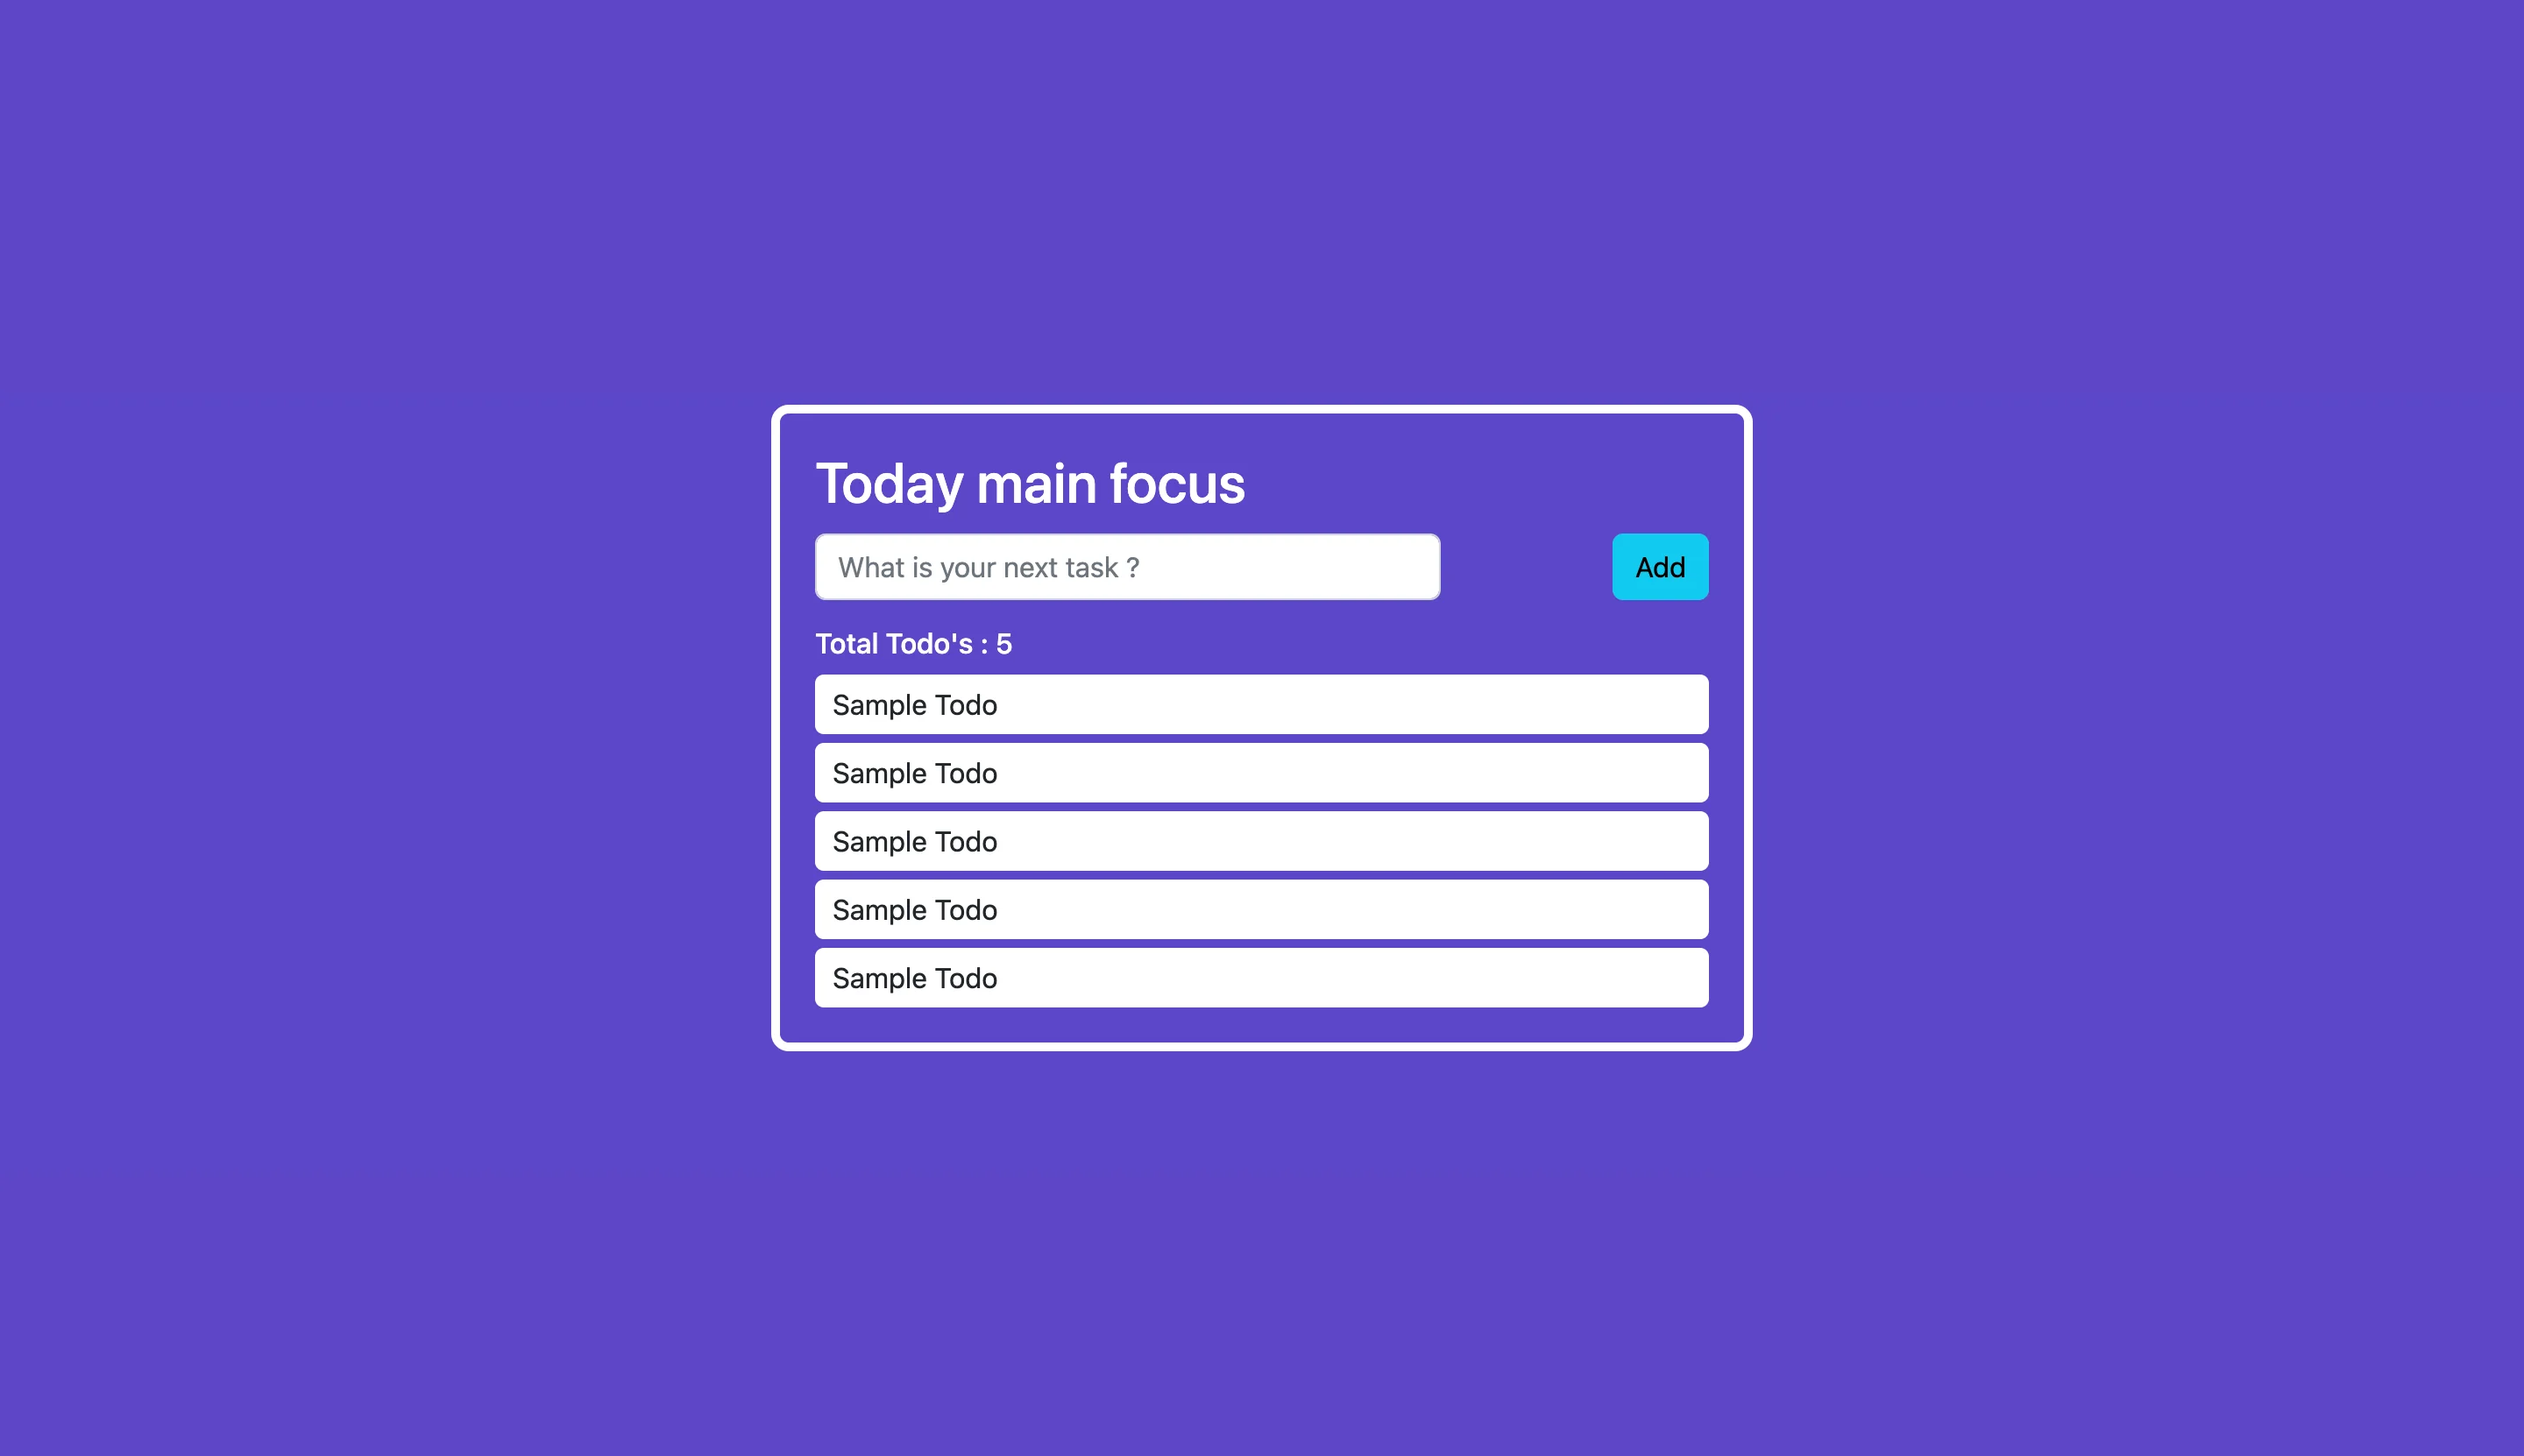
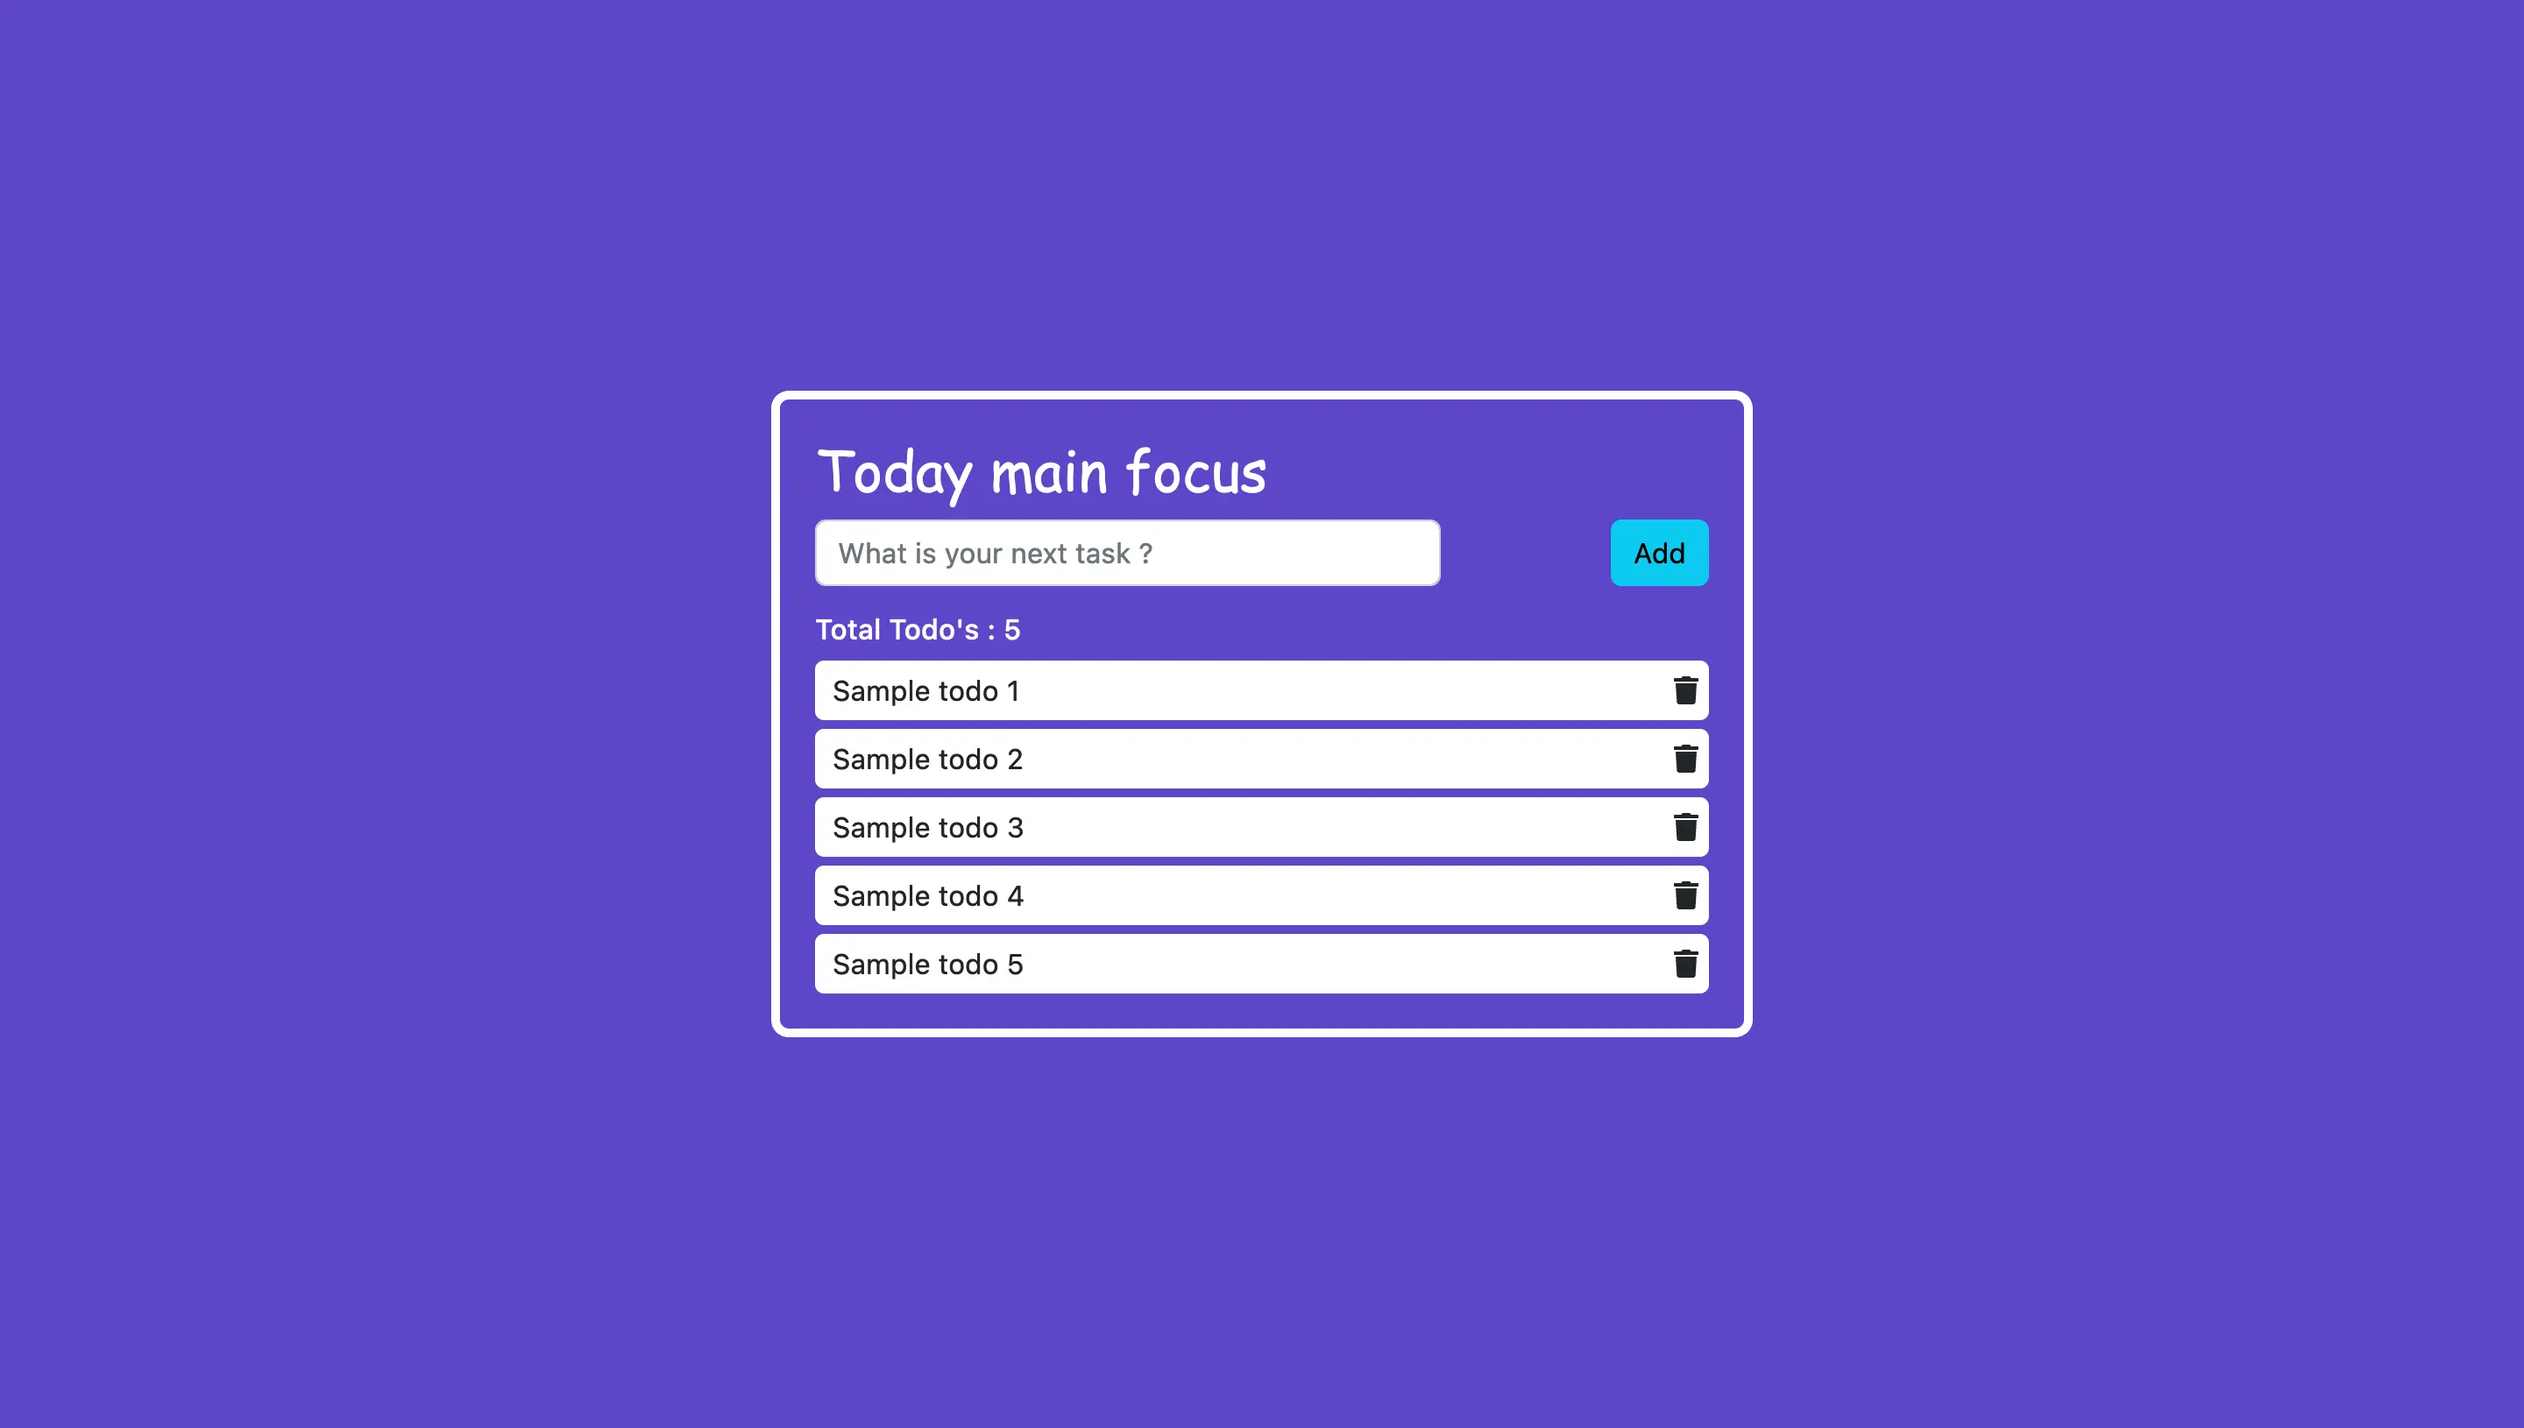
update code

diff --git a/src/components/ListItem.js b/src/components/ListItem.js
@@ -1,18 +1,20 @@
 import React, { useState } from "react";
+import { FaTrash } from "react-icons/fa";
+
 
 // code for strike through line
 // const ListItem = (props) =>{
-//     const [isDone, setDone] = useState();
-//     const cssObj = {
-//         textDecoration: 'line-through'
-//     }
-//     const strikeThroughLine = () =>{
-//         if(isDone){
-//             setDone(false)
-//         } else {
-//             setDone(true)
-//         }
-//     }
+    // const [isDone, setDone] = useState();
+    // const cssObj = {
+    //     textDecoration: 'line-through'
+    // }
+    // const strikeThroughLine = () =>{
+    //     if(isDone){
+    //         setDone(false)
+    //     } else {
+    //         setDone(true)
+    //     }
+    // }
 //     return (
 //         <>
 //             {/* code for strikeThroughLine */}
@@ -22,13 +24,24 @@ import React, { useState } from "react";
 // }
 
 const ListItem = (props) => {
+    const [isDone, setDone] = useState();
+    const cssObj = {
+        textDecoration: 'line-through'
+    }
+    const strikeThroughLine = () =>{
+        if(isDone){
+            setDone(false)
+        } else {
+            setDone(true)
+        }
+    }
     const deleteListItem = () => {
         const id = props.uniqueId;
         props.deleteItem(id);
     };
     return (
         <>
-            <div className="contentHere" onClick={deleteListItem}>{props.value}</div>
+            <div className="contentHere" onClick={strikeThroughLine} style={isDone?cssObj:null}>{props.value} <FaTrash onClick={deleteListItem}/></div>
         </>
     );
 };

diff --git a/public/style.css b/public/style.css
@@ -20,8 +20,11 @@ body {
 h2 {
     margin-bottom: 10px !important;
     margin-bottom: 15px;
+    font-family: Comic Sans MS;
 }
-h6,h2{
+
+h6,
+h2 {
     color: white;
 }
 
@@ -37,12 +40,16 @@ form {
     padding: 5px 5px 5px 10px;
     margin-top: 5px;
     overflow: auto;
+    display: flex;
+    align-content: center;
+    align-items: center;
+    justify-content: space-between;
 }
 
 #inputBox {
     width: 70%;
 }
 
-.todo-list{
+.todo-list {
     overflow: auto;
 }
